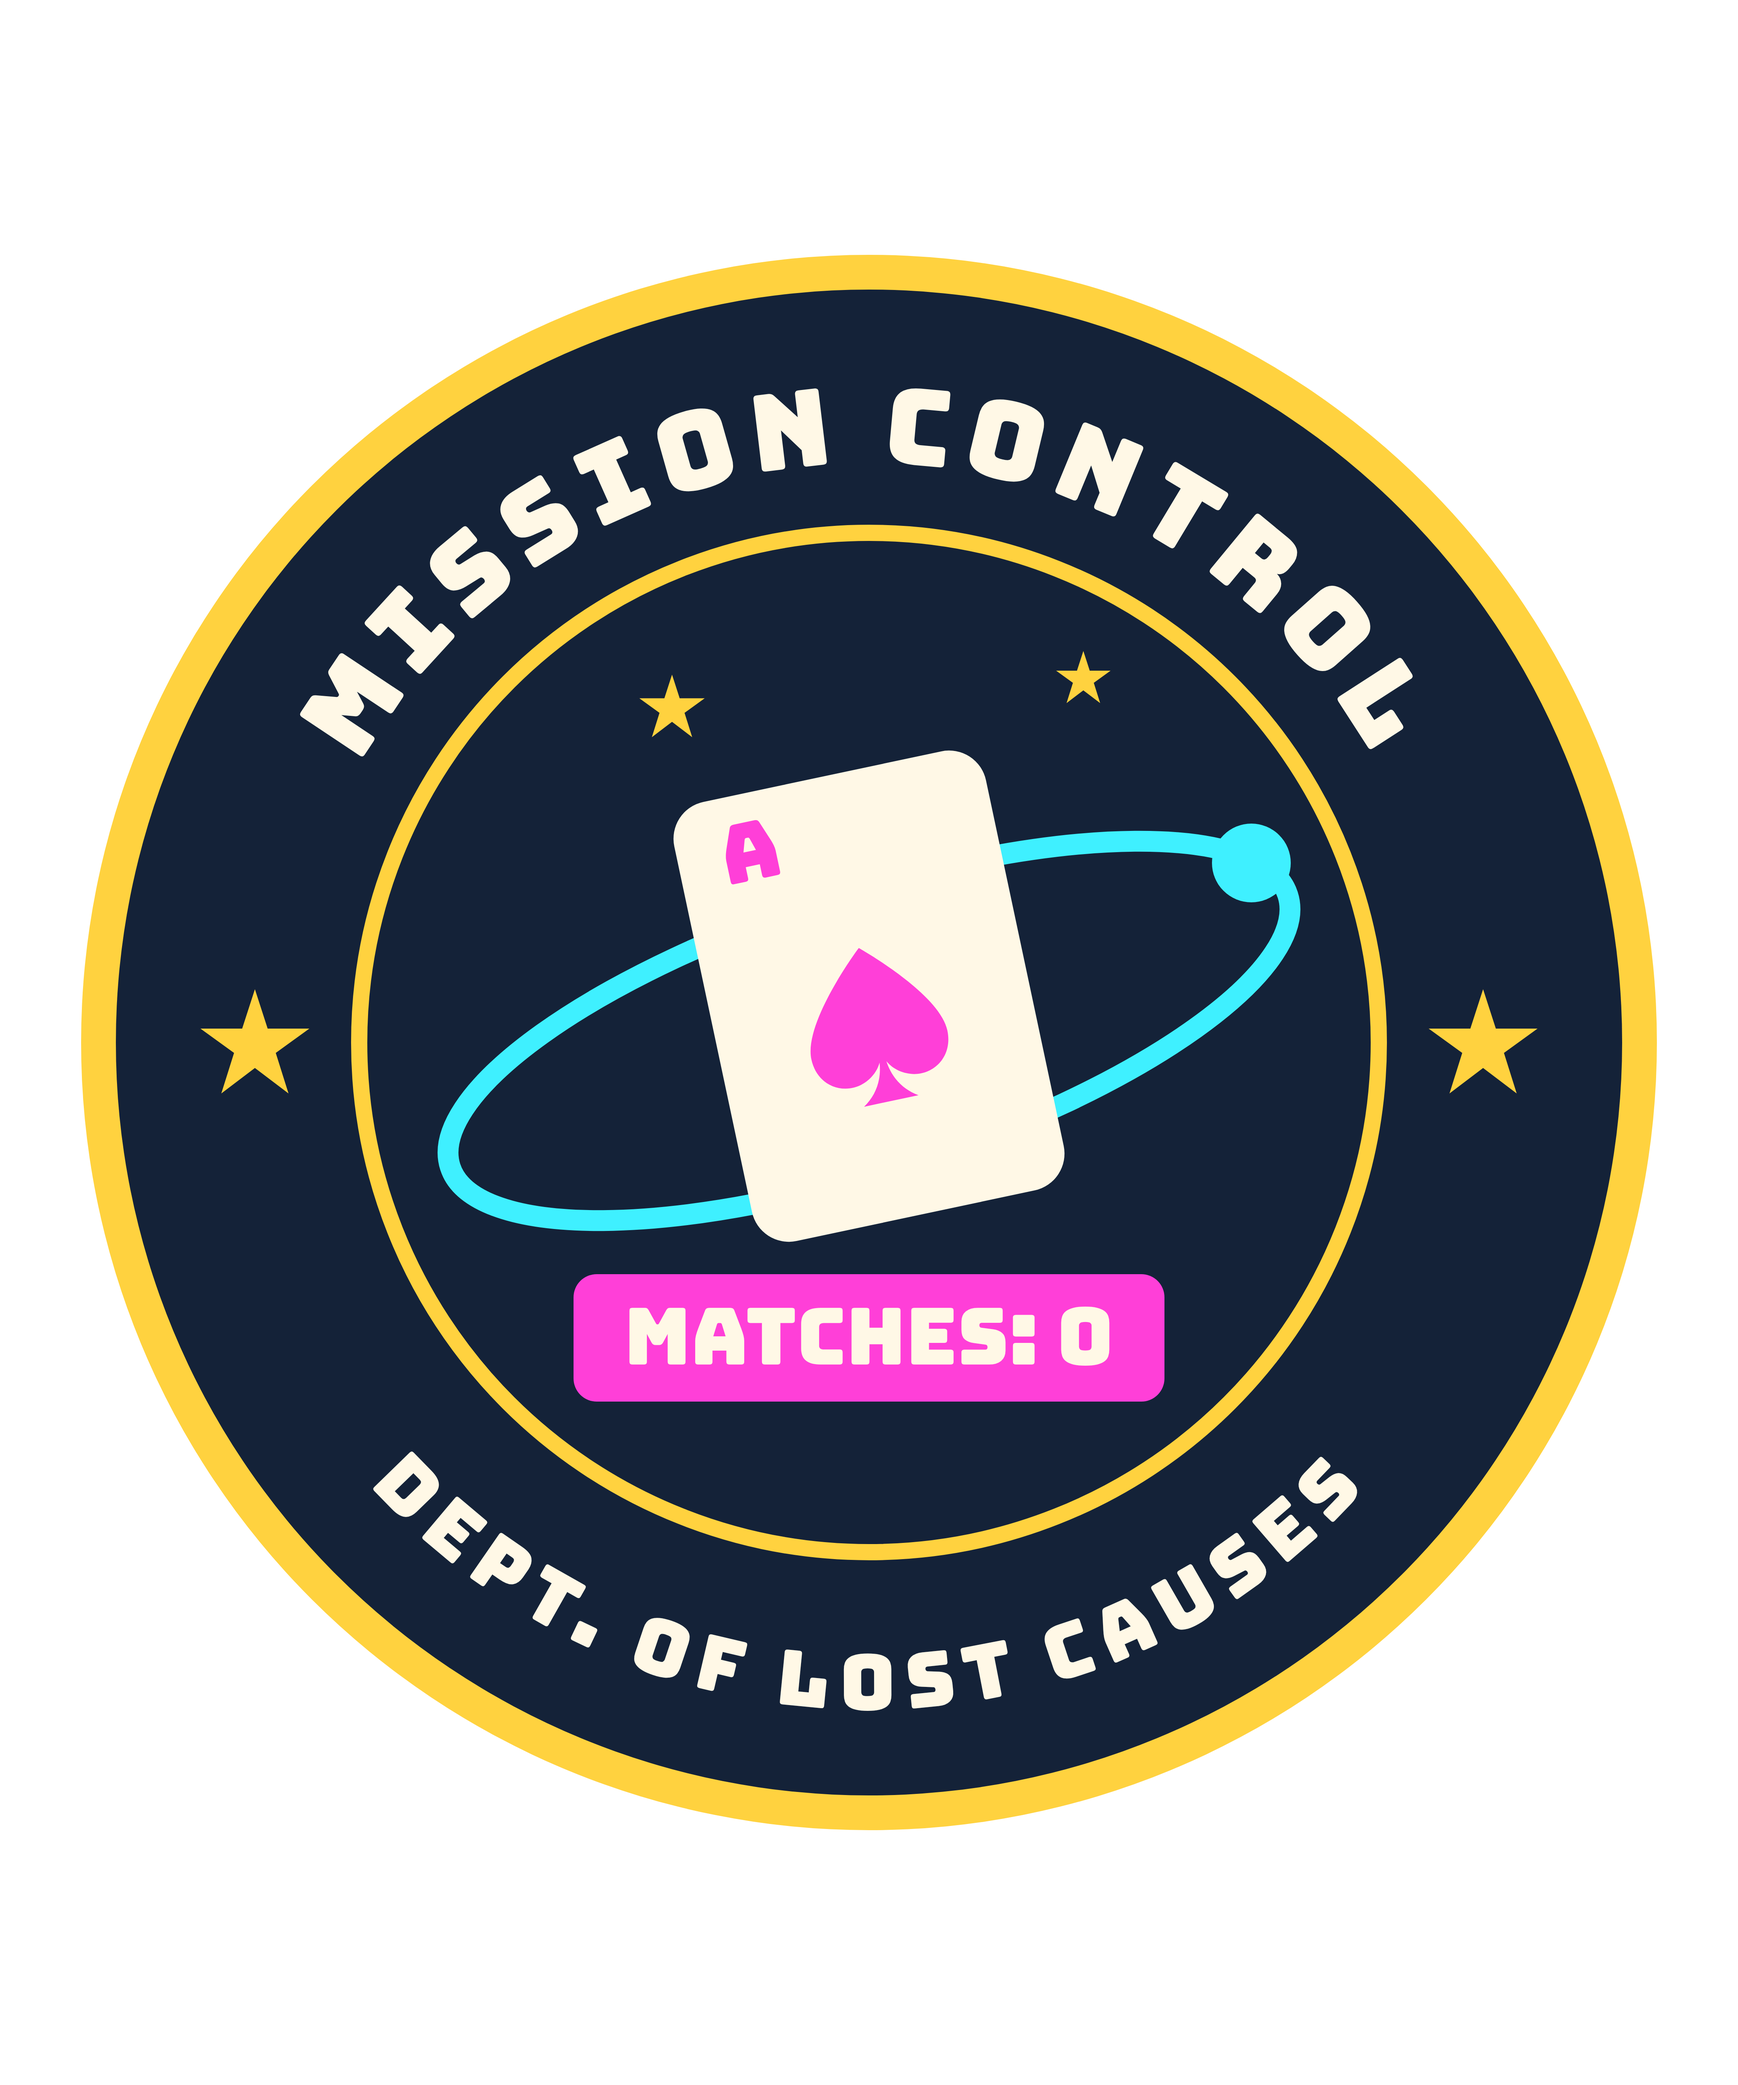
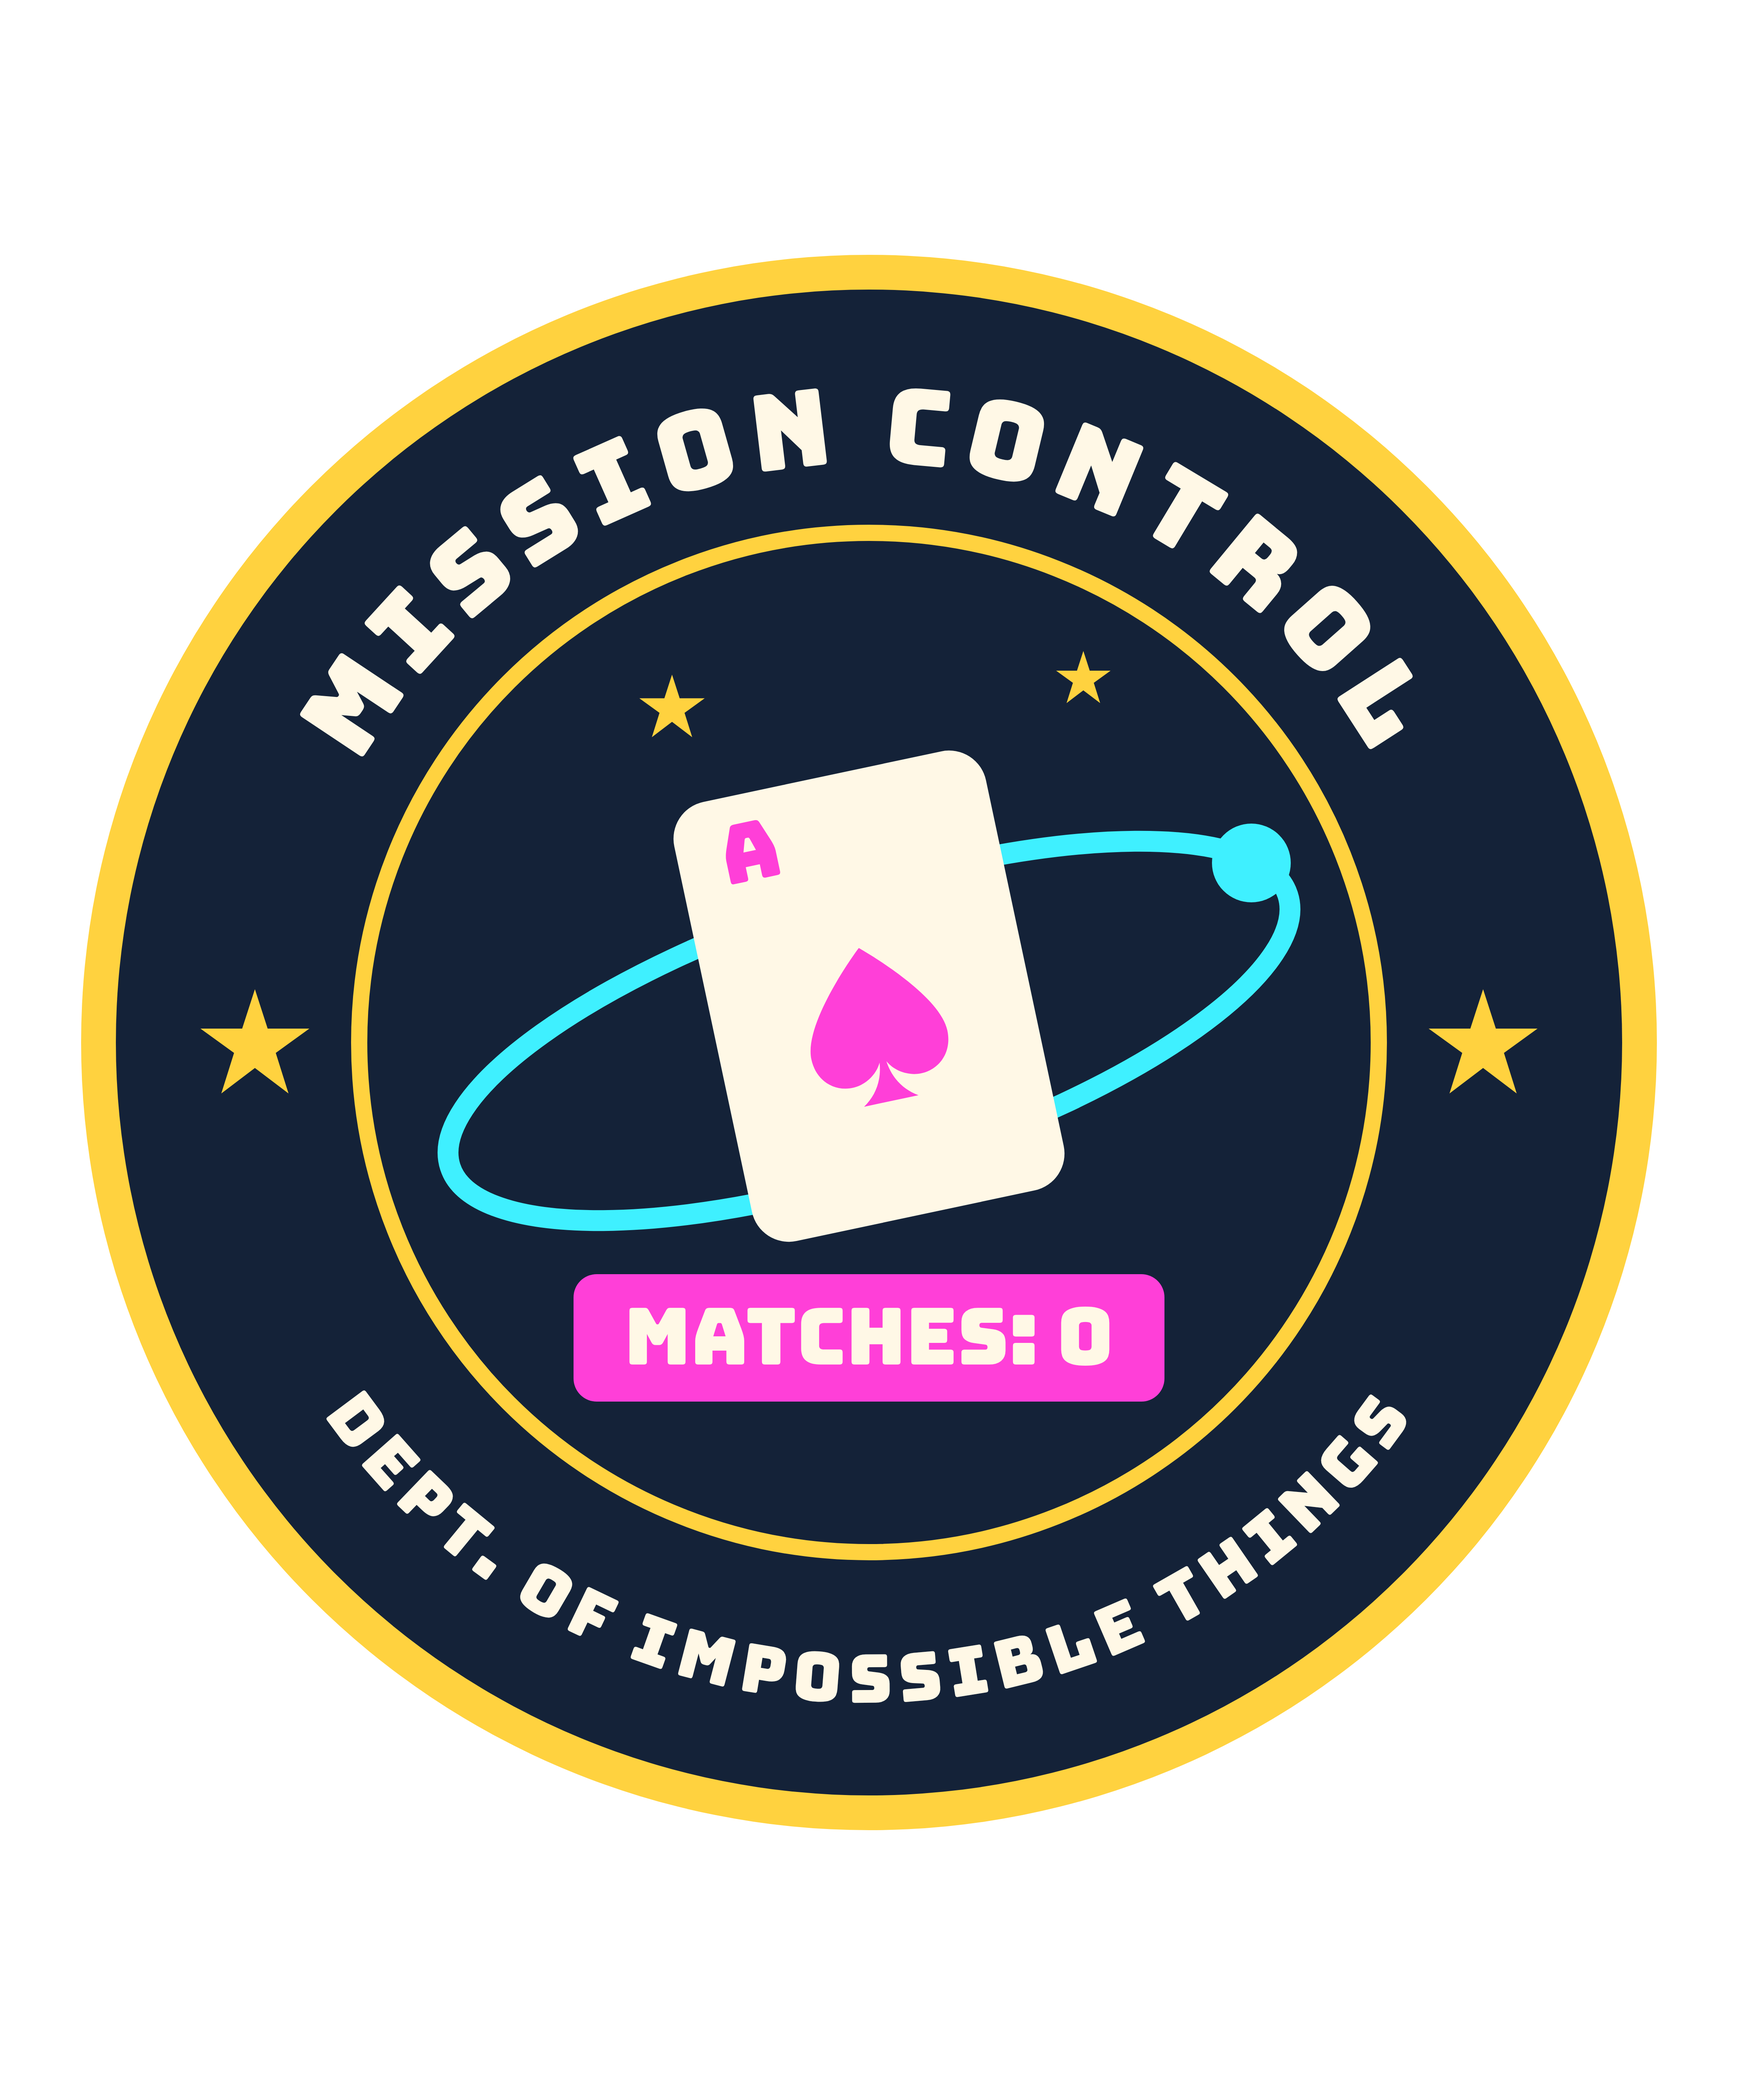
Hall of Firsts (supabase/firsts.sql): rungs 8/10/12/15/20 with the first human to reach each; mission patch says Dept. of Impossible Things
Claude-Session: https://claude.ai/code/session_01YJQDRu3Y672xQjHvmeDDE6

Changed region(s): [[0.1867, 0.6533, 0.8089, 0.84]]

diff --git a/index.html b/index.html
@@ -459,6 +459,19 @@
   .replay-note .odds { display:block; margin-top:.3rem; color:#ffe68a; }
   .replay-note .odds b { color:#ffe68a; }
   .replay-note .tag { display:inline-block; margin-right:.35rem; padding:.05rem .45rem; border-radius:999px; background:#22f3ff; color:#03262b; font:800 .65rem "JetBrains Mono", ui-monospace, monospace; letter-spacing:.06em; vertical-align:1px; }
+  .hof { padding:.75rem; border-radius:14px; border:1px solid rgba(255,210,63,.3); background:rgba(255,210,63,.05); }
+  .hof-title { margin:0; font-size:.85rem; line-height:1.45; color:#cfe3d7; }
+  .hof-title b { color:#ffe68a; margin-right:.3rem; }
+  .hof-list { list-style:none; margin:.6rem 0 0; padding:0; display:grid; gap:.5rem; grid-template-columns:repeat(5, minmax(0, 1fr)); }
+  @media (max-width:640px) { .hof-list { grid-template-columns:repeat(2, minmax(0, 1fr)); } .hof-rung.dream { grid-column:1 / -1; } }
+  .hof-rung { min-width:0; display:flex; flex-direction:column; gap:.1rem; padding:.55rem .65rem; border-radius:12px; background:rgba(0,0,0,.35); border:1px dashed rgba(255,255,255,.2); }
+  .hof-rung.claimed { border:1px solid rgba(255,210,63,.6); }
+  .hof-rung.dream { border-color:rgba(255,47,214,.65); }
+  .hof-rung .k { font:800 1.15rem/1.1 "JetBrains Mono", ui-monospace, monospace; color:#ffe68a; }
+  .hof-rung .odds { font-size:.7rem; color:var(--muted); }
+  .hof-rung .who { margin-top:.2rem; font-size:.85rem; font-weight:700; color:#fff; overflow-wrap:anywhere; }
+  .hof-rung .who.open { color:#9fb5a8; font-weight:600; }
+  .hof-rung .when { font-size:.7rem; color:#9fb5a8; }
   .ph-hello { margin:0 auto 1rem; max-width:40rem; padding:.55rem .9rem; border-radius:12px; border:1px solid rgba(255,97,84,.55); background:rgba(255,97,84,.12); color:#ffd9d4; font-size:.9rem; line-height:1.45; }
   .hero-trust { margin:.75rem auto 0; max-width:40rem; font-size:.85rem; line-height:1.5; color:#cfe3d7; text-wrap:balance; }
   .hero-trust b { color:#ffe68a; font-family:"JetBrains Mono", ui-monospace, monospace; white-space:nowrap; }
@@ -807,6 +820,10 @@
         <div class="flex items-center gap-3 flex-wrap"><span id="lbCount" class="mono text-xs text-[#9fb5a8]"></span><button type="button" id="lbShare" class="chip-btn !text-xs">📤 Share the top 3</button></div>
       </div>
       <p class="mt-1 text-sm text-[#cfe3d7]">The best single shuffles anyone has made, worldwide. Same score? Whoever needed the fewest tries ranks higher. Every score with a <span class="pf-tick" aria-hidden="true">✓</span> is provably fair: tap it to replay that exact shuffle yourself. Scores marked <span class="pf-early">early</span> came in before provably fair shuffles existed: checked to be plausible, but they can't be replayed.</p>
+      <div id="hof" class="hof mt-4" hidden>
+        <p class="hof-title"><b>🏛 Hall of Firsts</b> The first human to reach each rung keeps it forever. Scores on this board count.</p>
+        <ol id="hofList" class="hof-list" aria-label="Hall of Firsts"></ol>
+      </div>
       <div id="lbMe" class="lb-me mt-4" aria-live="polite"></div>
       <div class="lb-wrap mt-4">
         <table class="lb">
@@ -4445,6 +4462,36 @@ async function lbLoad() {
   $('#lbSection').hidden = false;
   renderLB();
   statsDirty = true;
+  hofLoad();
+}
+/* ---------- Hall of Firsts (supabase/firsts.sql): the first human to reach each rung keeps it ---------- */
+const HOF_RUNGS = [8, 10, 12, 15, 20];
+const HOF = { mine: null };
+function shortOdds(k) {
+  const n = 1 / tailP(k);
+  if (n < 1e6) return fmt(Math.round(n));
+  const [v, w] = n >= 1e18 ? [n / 1e18, 'quintillion'] : n >= 1e15 ? [n / 1e15, 'quadrillion'] : n >= 1e12 ? [n / 1e12, 'trillion'] : n >= 1e9 ? [n / 1e9, 'billion'] : [n / 1e6, 'million'];
+  return `${v.toFixed(1)} ${w}`;
+}
+function renderHof(rows) {
+  const by = Object.fromEntries(rows.map(r => [r.rung, r]));
+  $('#hofList').innerHTML = HOF_RUNGS.map(k => {
+    const r = by[k], cls = ['hof-rung', r ? 'claimed' : '', k === 20 ? 'dream' : ''].join(' ').trim();
+    const head = `<b class="k">${k}/52</b><span class="odds">1 in ${shortOdds(k)}</span>`;
+    if (!r) return `<li class="${cls}">${head}<span class="who open">Unclaimed</span><span class="when">${k === 20 ? 'The Twenty Club. Wide open.' : 'First come, forever.'}</span></li>`;
+    const when = new Date(r.at).toLocaleDateString('en-US', { month: 'short', day: 'numeric', year: 'numeric' });
+    return `<li class="${cls}">${head}<span class="who">${r.kind === 'traveller' ? '🚀 ' : ''}${escapeHtml(r.name)}${r.verified ? '' : ' <span class="pf-early">early</span>'}</span><span class="when">${when}</span></li>`;
+  }).join('');
+  $('#hof').hidden = false;
+  // Claimed one yourself just now? Make some noise (not for the rungs you already had at page load).
+  const me = store.lb && store.lb.name ? store.lb.name.toLowerCase() : '';
+  const mine = rows.filter(r => me && r.kind === 'shuffler' && r.name.toLowerCase() === me).map(r => r.rung);
+  if (HOF.mine) for (const k of mine) if (!HOF.mine.includes(k)) { toast(`🏛 <b>Hall of Firsts!</b> You're the first human ever to reach ${k}/52. That rung is yours forever.`); track('hof-claim-' + k); }
+  HOF.mine = mine;
+}
+async function hofLoad() {
+  if (!LB.on) return;
+  try { const rows = await lbRpc('hall_of_firsts', {}); if (Array.isArray(rows)) renderHof(rows); } catch (e) { /* firsts.sql not installed yet: stay hidden */ }
 }
 function renderLB() {
   const me = store.lb && store.lb.name && store.lb.sub ? { name: store.lb.name, best: store.lb.sub } : null;
@@ -4521,6 +4568,7 @@ async function lbSubmit(quiet) {
     store.lb.sub = Math.max(store.lb.sub, mine ? mine.matches : 0, 1); saveStore(true);
     LB.rank = res.rank; LB.players = res.players;
     track('leaderboard-submit');
+    hofLoad();
     return res;
   } catch (e) {
     if (!quiet) toast(/name taken/.test(e.message) ? '🏆 That name is already taken. Pick another one.'

diff --git a/merch/README.md b/merch/README.md
@@ -15,7 +15,7 @@ Print-ready T-shirt designs for The Impossible Shuffle.
 
 | File | Design | Good for |
 |---|---|---|
-| `mission-patch.png` | Round patch: "Mission Control · Dept. of Lost Causes", an orbiting ace, "Matches: 0" | Hoodie chest or back, cap side, stickers |
+| `mission-patch.png` | Round patch: "Mission Control · Dept. of Impossible Things", an orbiting ace, "Matches: 0" | Hoodie chest or back, cap side, stickers |
 | `do-not-disturb.png` | "Do not disturb. My computer is shuffling for humanity", progress bar, "Station online · ETA: never" | Hoodies (lounge wear) |
 | `world-first.png` | "World first" stamp: "My deck order had never existed in the history of the universe. It still didn't match." | Hoodie back, T-shirts |
 | `this-close.png` | "I was this close": two cards 45 cards apart, "Best match: 7/52" | Hoodies, T-shirts |

diff --git a/README.md b/README.md
@@ -58,6 +58,13 @@ site links to `theimpossibleshuffle.com/b/<score>/`, so the link unfurls (X, Wha
 Slack, Facebook) with that score; people who click it land on the site. Higher scores fall back to
 the homepage. The images and pages are generated from the same design as `og-image.png`.
 
+## Hall of Firsts
+
+- Run `supabase/firsts.sql` once (after `leaderboard.sql` and `honors.sql`). Until then the strip stays hidden.
+- Rungs 8, 10, 12, 15 and 20 out of 52. The first human to reach a rung on the leaderboard (or a
+  Time Traveller's mission) keeps it forever. Triggers record every crossing, so hiding an entry
+  hands the rung to the next one in line. Honorary only.
+
 ## Recruits and humans
 
 - Run `supabase/recruits.sql` once (after `live-counter.sql`). Until then the recruit panel still
